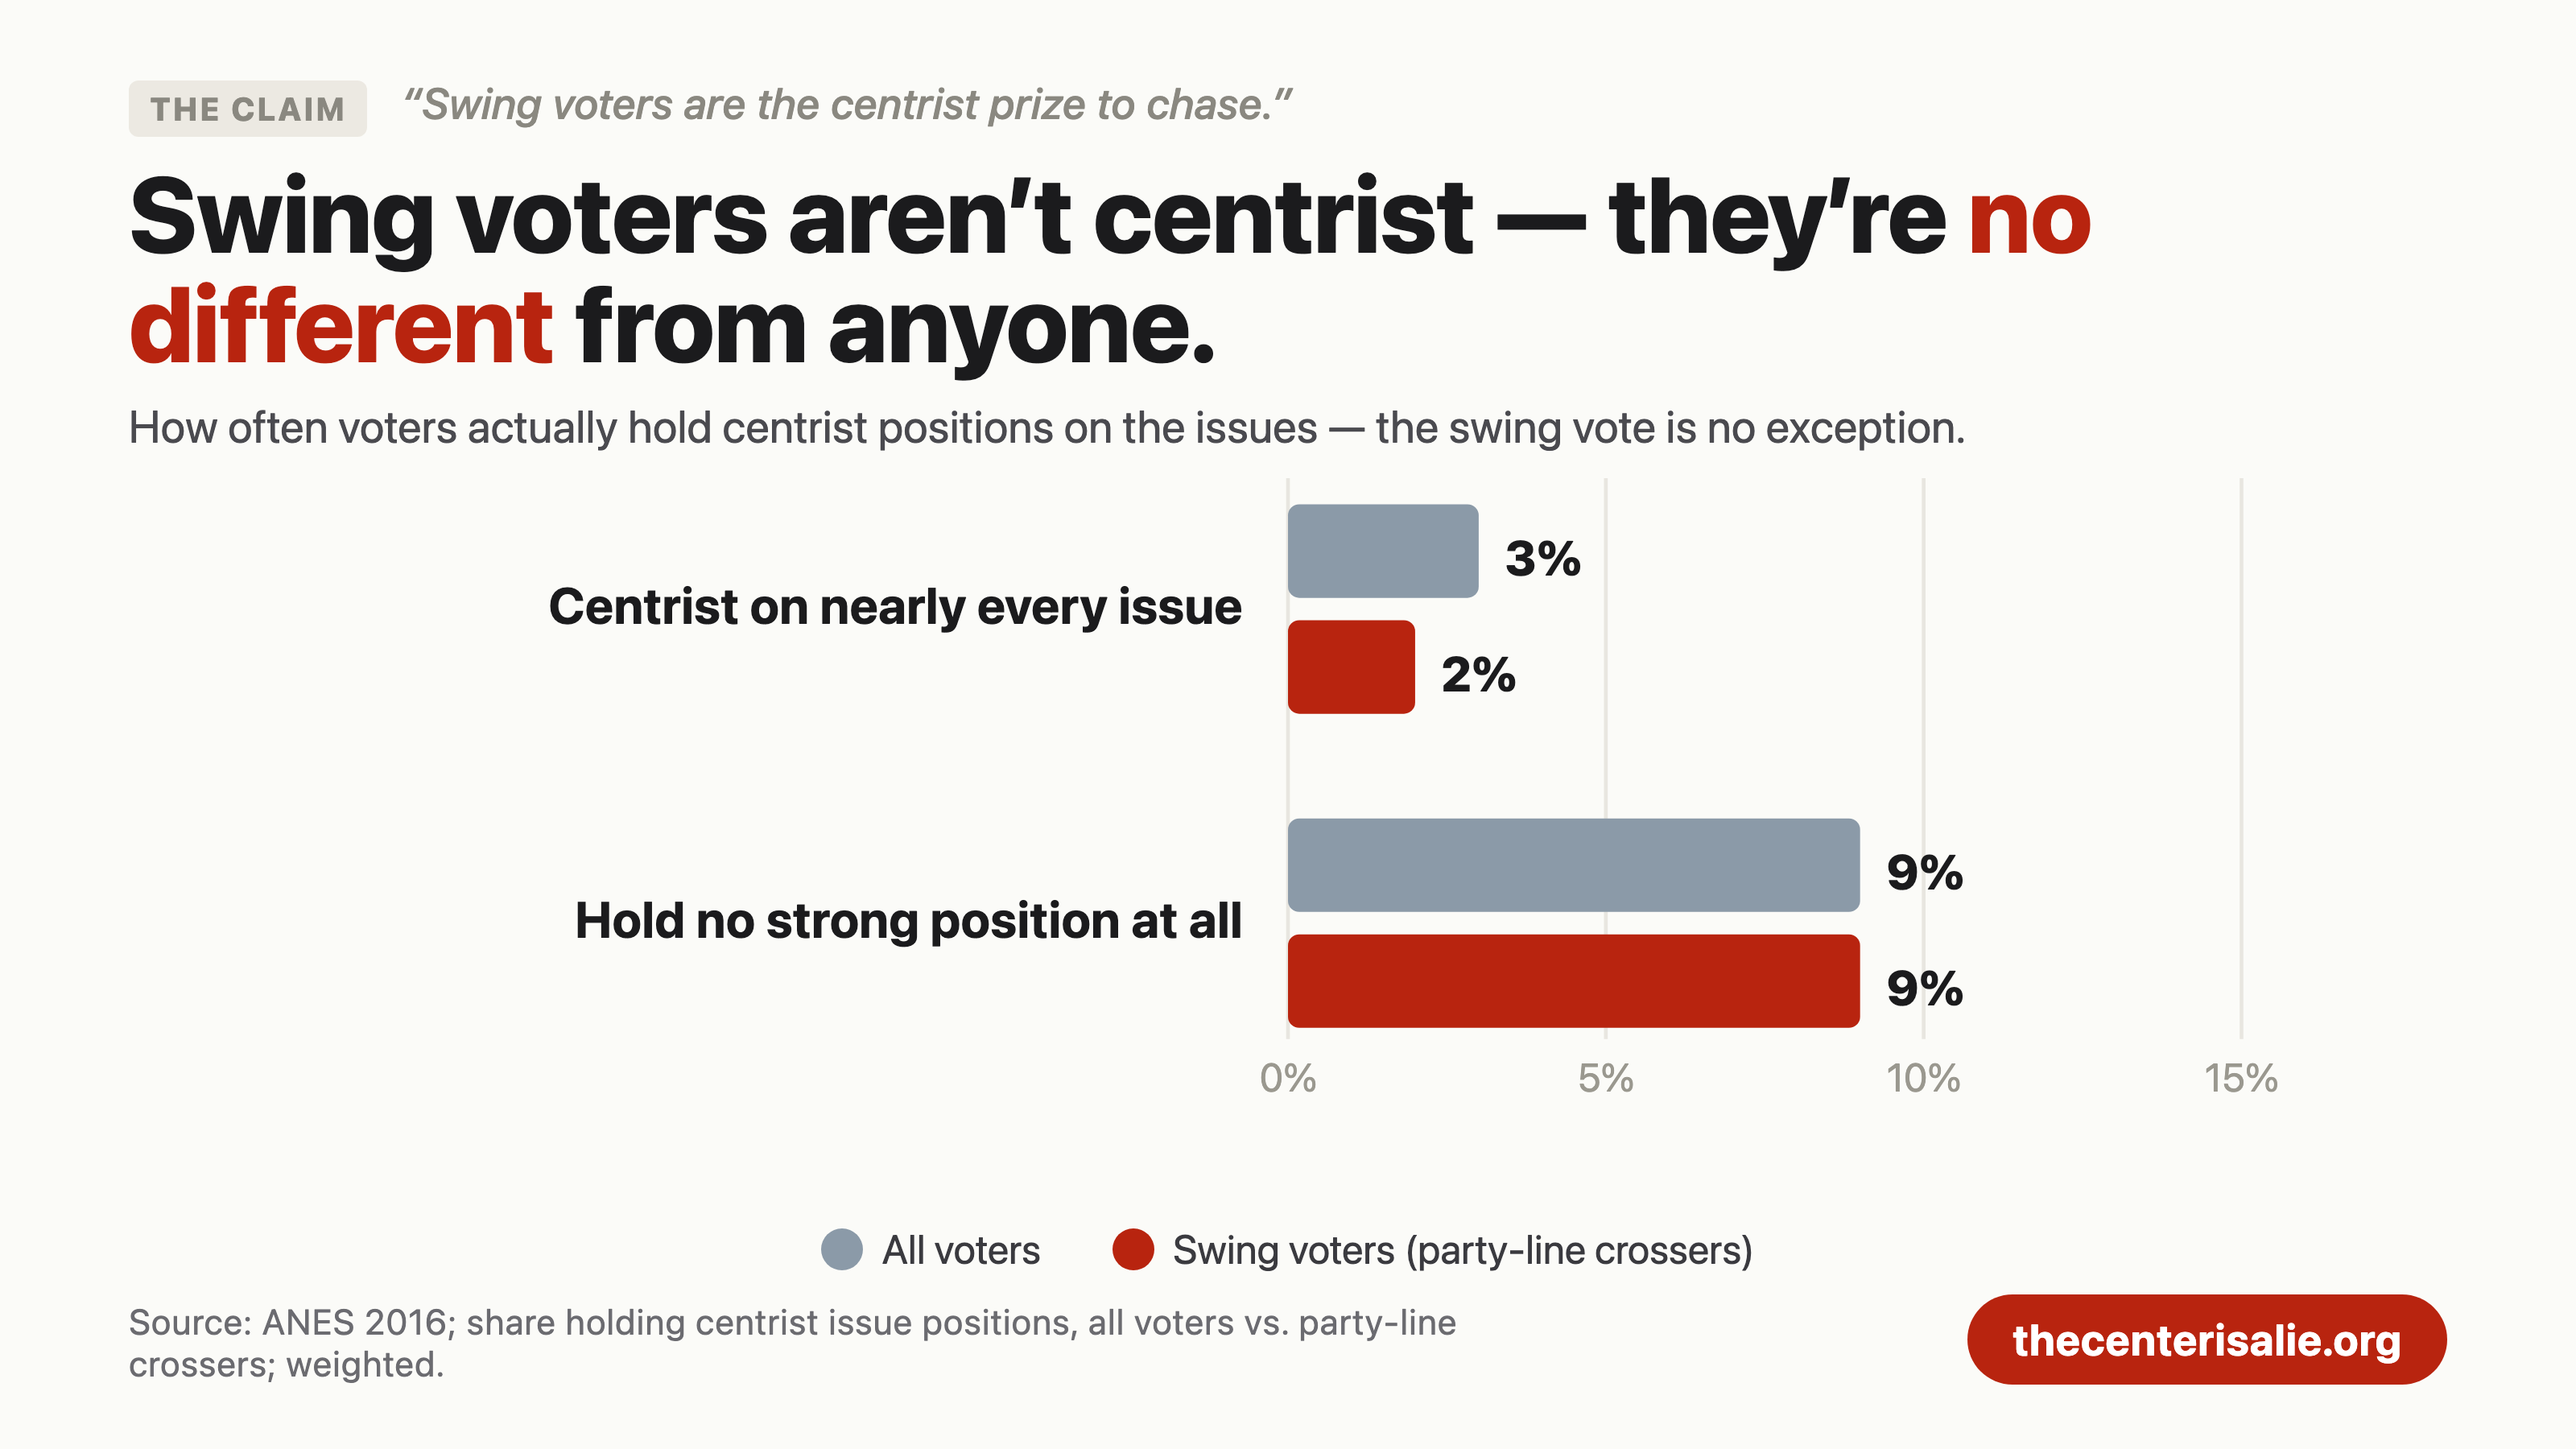
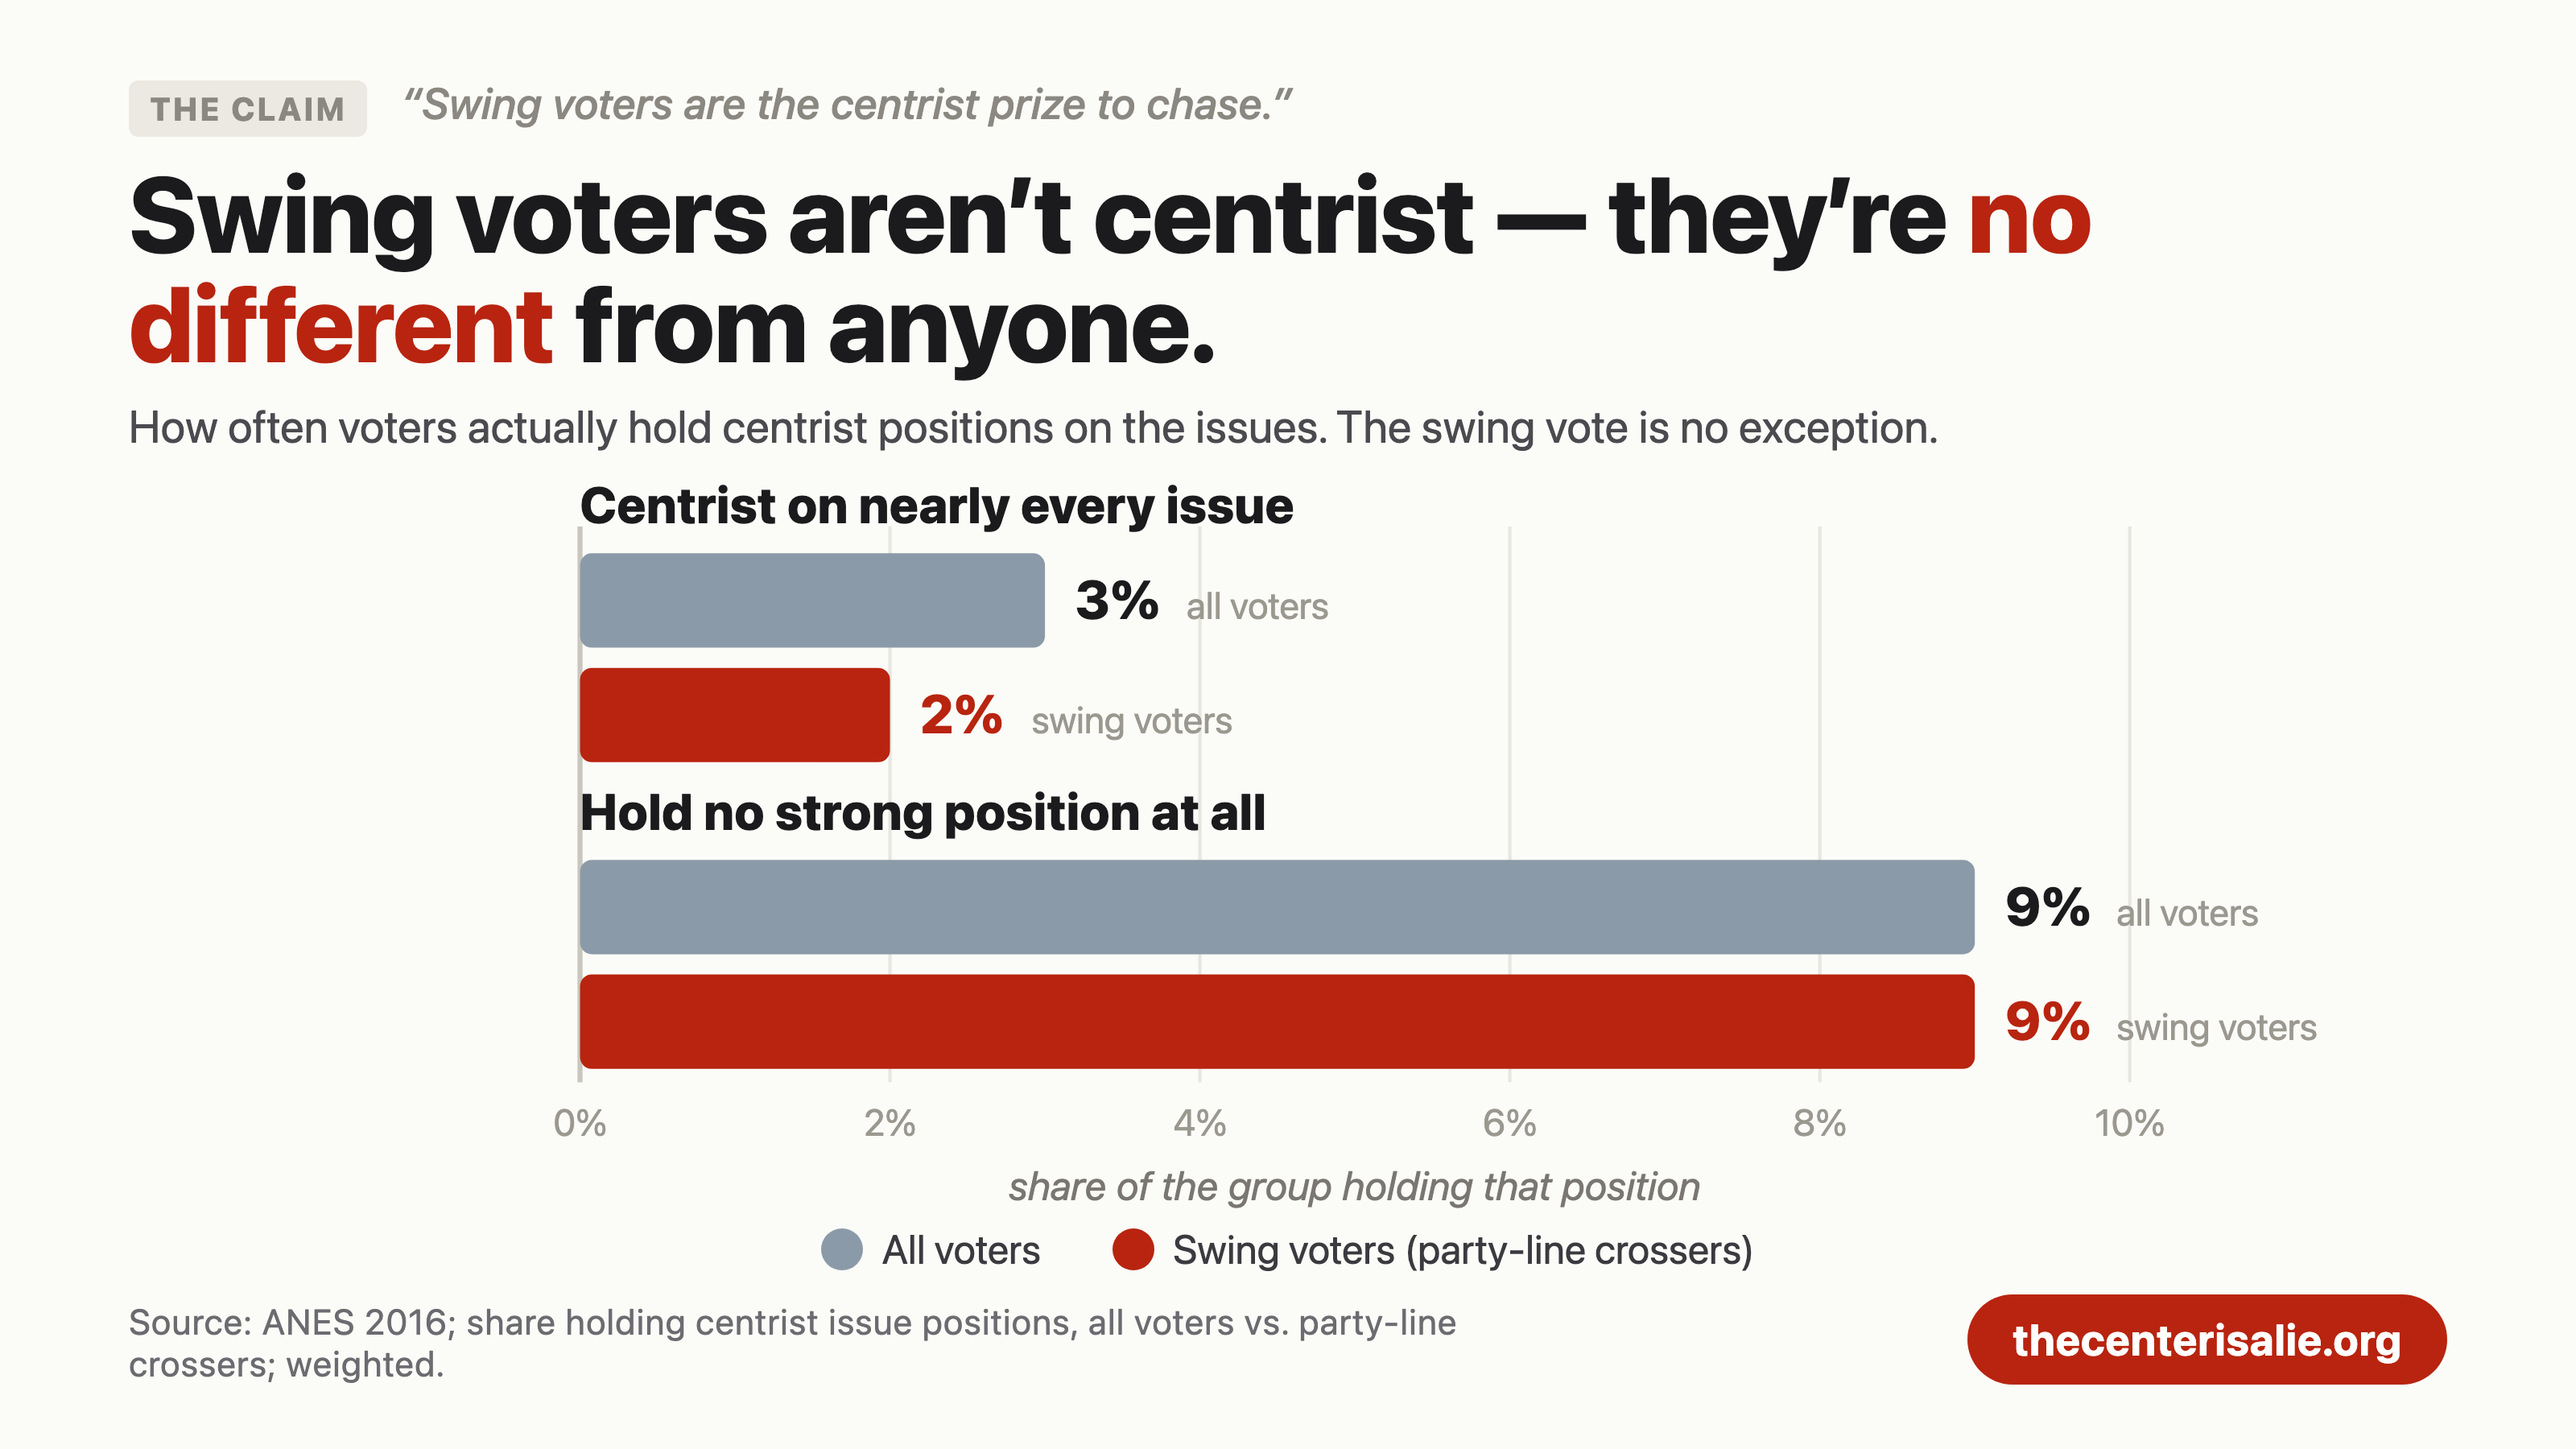
fix(og): rebuild noconstituency full-width with a 0-10% axis
Data was crammed into the right third against a 15% axis that no bar reached.
Now left-anchored, axis capped at the data, inline bar labels, group titles.

diff --git a/web/og-cards/chart-noconstituency.html b/web/og-cards/chart-noconstituency.html
@@ -4,10 +4,10 @@
   <div class="chartcard">
     <div class="cc-claim"><span class="tag">The claim</span> &ldquo;Swing voters are the centrist prize to chase.&rdquo;</div>
     <div class="cc-title">Swing voters aren&rsquo;t centrist &mdash; they&rsquo;re <span class="hl">no different</span> from anyone.</div>
-    <div class="cc-sub">How often voters actually hold centrist positions on the issues &mdash; the swing vote is no exception.</div>
+    <div class="cc-sub">How often voters actually hold centrist positions on the issues. The swing vote is no exception.</div>
 
-    <div class="cc-chart"><svg id="nc" viewBox="0 0 1240 380" role="img"
-      aria-label="Centrist on nearly every issue: all voters 3%, swing 2%. No strong position at all: all 9%, swing 9%."></svg></div>
+    <div class="cc-chart"><svg id="nc" viewBox="0 0 1240 449" role="img"
+      aria-label="Centrist on nearly every issue: all voters 3%, swing 2%. No strong position at all: all 9%, swing 9%. Swing voters are no more centrist than anyone."></svg></div>
 
     <div class="cc-legend">
       <div class="item"><span class="dot" style="background:#8b9aa8"></span>All voters</div>
@@ -24,25 +24,31 @@
     const NS = 'http://www.w3.org/2000/svg';
     const svg = document.getElementById('nc');
     const el = (t, a) => { const n = document.createElementNS(NS, t); for (const k in a) n.setAttribute(k, a[k]); return n; };
+    const txt = (a, s) => { const t = el('text', a); t.textContent = s; svg.appendChild(t); return t; };
+
     const groups = [
       { name: 'Centrist on nearly every issue', all: 3, swing: 2 },
       { name: 'Hold no strong position at all', all: 9, swing: 9 },
     ];
-    const X0 = 620, X1 = 1130, VMAX = 15, sc = (X1 - X0) / VMAX;
-    const barH = 50, gap = 12, groupH = barH * 2 + gap, groupGap = 56, y0 = 14;
-    const axisY = y0 + groups.length * (groupH + groupGap) - groupGap + 6;
-    for (let v = 0; v <= 15; v += 5) {
+    const X0 = 200, X1 = 1120, VMAX = 10, sc = (X1 - X0) / VMAX;
+    const barH = 56, gap = 12, groupH = barH * 2 + gap, groupGap = 58, y0 = 58;
+    const axisBot = y0 + groups.length * (groupH + groupGap) - groupGap + 8;
+
+    for (let v = 0; v <= 10; v += 2) {
       const gx = X0 + v * sc;
-      svg.appendChild(el('line', { x1: gx, y1: 0, x2: gx, y2: axisY, stroke: '#e8e6e0', 'stroke-width': 2 }));
-      const t = el('text', { x: gx, y: axisY + 28, 'text-anchor': 'middle', fill: '#9a988f', 'font-size': 21 }); t.textContent = v + '%'; svg.appendChild(t);
+      svg.appendChild(el('line', { x1: gx, y1: y0 - 16, x2: gx, y2: axisBot, stroke: v === 0 ? '#c9c6bd' : '#e8e6e0', 'stroke-width': v === 0 ? 3 : 2 }));
+      txt({ x: gx, y: axisBot + 32, 'text-anchor': 'middle', fill: '#9a988f', 'font-size': 22 }, v + '%');
     }
+    txt({ x: (X0 + X1) / 2, y: axisBot + 70, 'text-anchor': 'middle', fill: '#7a7772', 'font-size': 24, 'font-style': 'italic' }, 'share of the group holding that position');
+
     groups.forEach((g, i) => {
       const gy = y0 + i * (groupH + groupGap);
-      const nm = el('text', { x: X0 - 24, y: gy + groupH / 2 + 8, 'text-anchor': 'end', fill: '#1b1b1d', 'font-size': 27, 'font-weight': 700 }); nm.textContent = g.name; svg.appendChild(nm);
-      [['all', '#8b9aa8', gy], ['swing', '#b8240f', gy + barH + gap]].forEach(([k, col, by]) => {
+      txt({ x: X0, y: gy - 18, 'text-anchor': 'start', fill: '#1b1b1d', 'font-size': 30, 'font-weight': 800 }, g.name);
+      [['all', '#8b9aa8', gy, 'all voters'], ['swing', '#b8240f', gy + barH + gap, 'swing voters']].forEach(([k, col, by, lab]) => {
         const w = Math.max(g[k] * sc, 4);
-        svg.appendChild(el('rect', { x: X0, y: by, width: w, height: barH, rx: 6, fill: col }));
-        const val = el('text', { x: X0 + w + 14, y: by + barH - 12, fill: '#1b1b1d', 'font-size': 26, 'font-weight': 800 }); val.textContent = g[k] + '%'; svg.appendChild(val);
+        svg.appendChild(el('rect', { x: X0, y: by, width: w, height: barH, rx: 7, fill: col }));
+        txt({ x: X0 + w + 18, y: by + barH - 17, fill: col === '#b8240f' ? '#b8240f' : '#1b1b1d', 'font-size': 32, 'font-weight': 800 }, g[k] + '%');
+        txt({ x: X0 + w + 18 + 66, y: by + barH - 17, fill: '#9a988f', 'font-size': 22 }, lab);
       });
     });
   </script>
